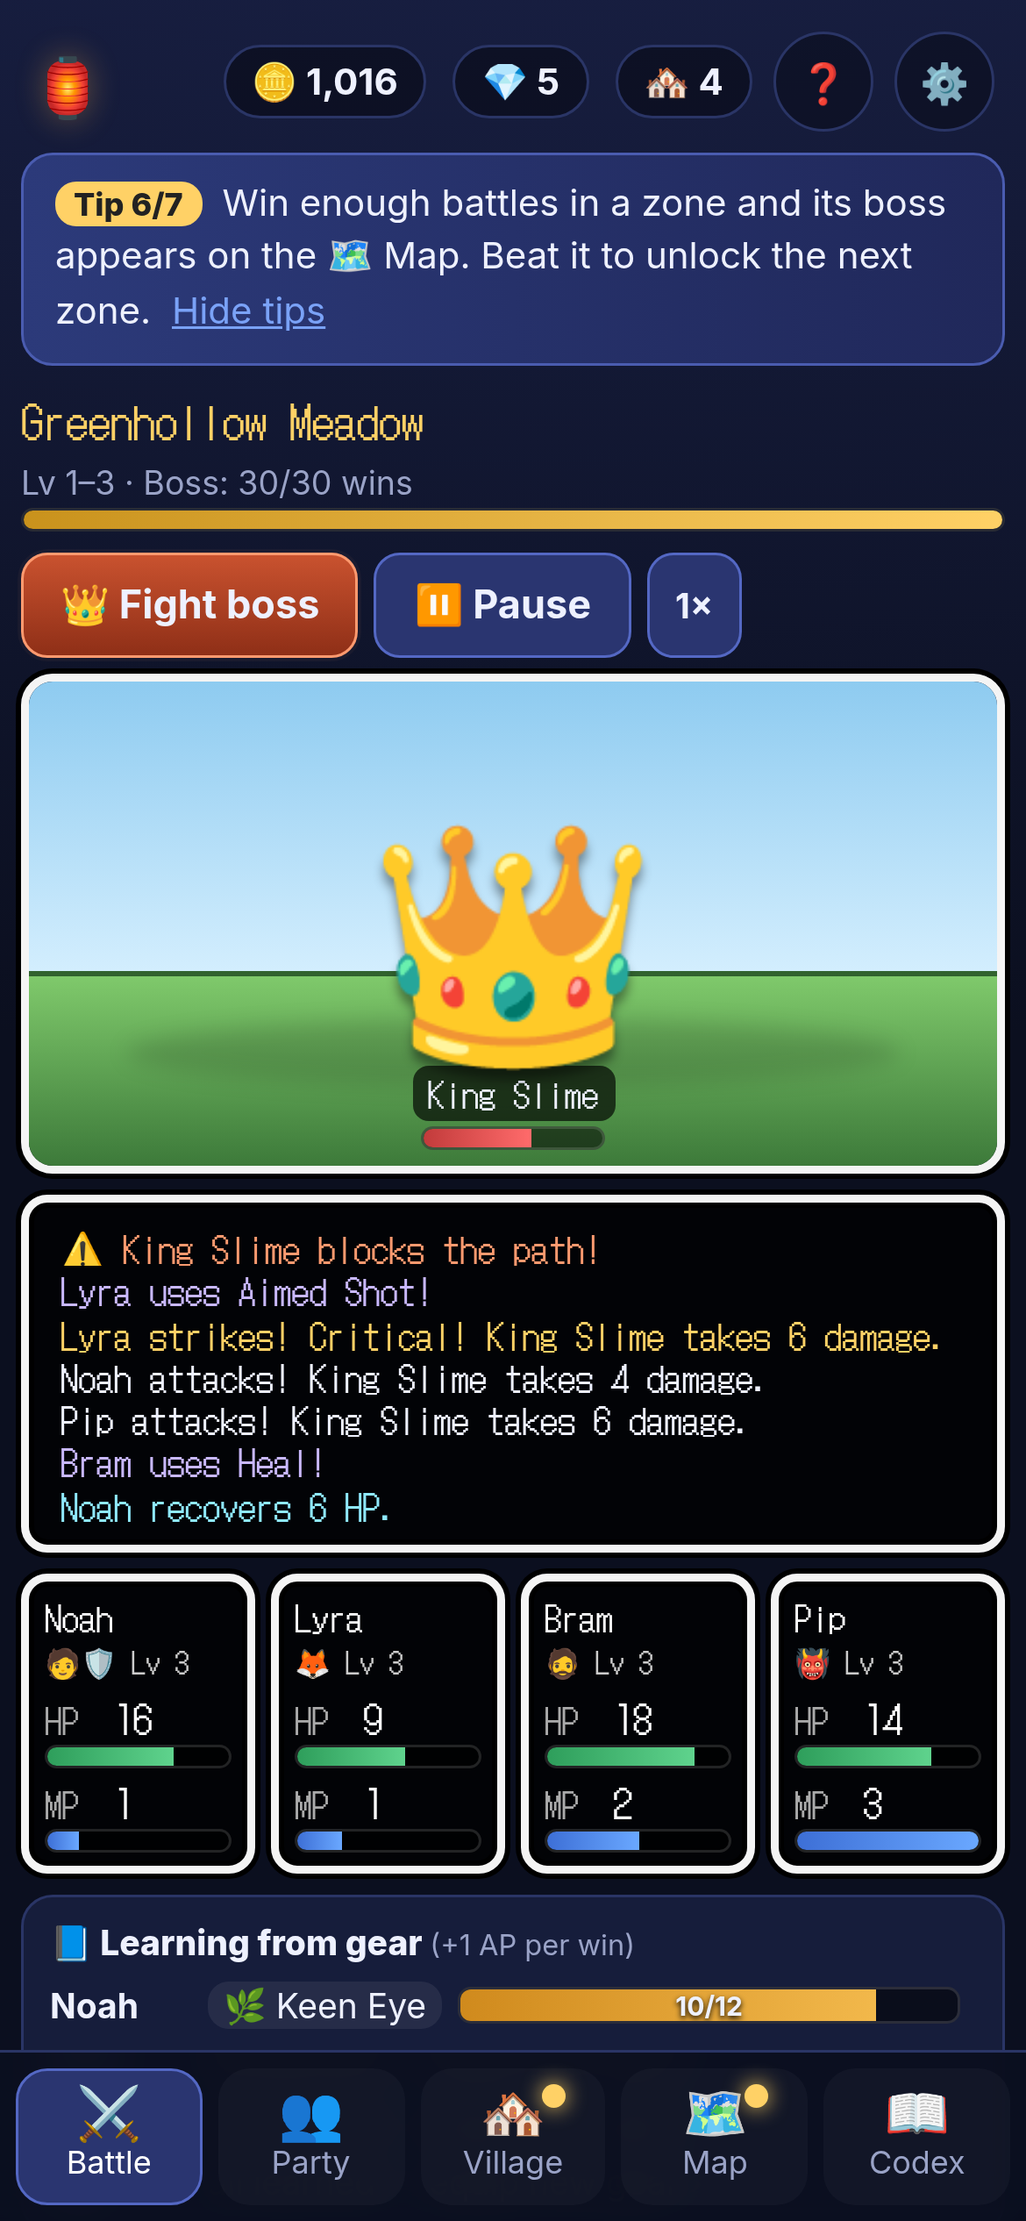
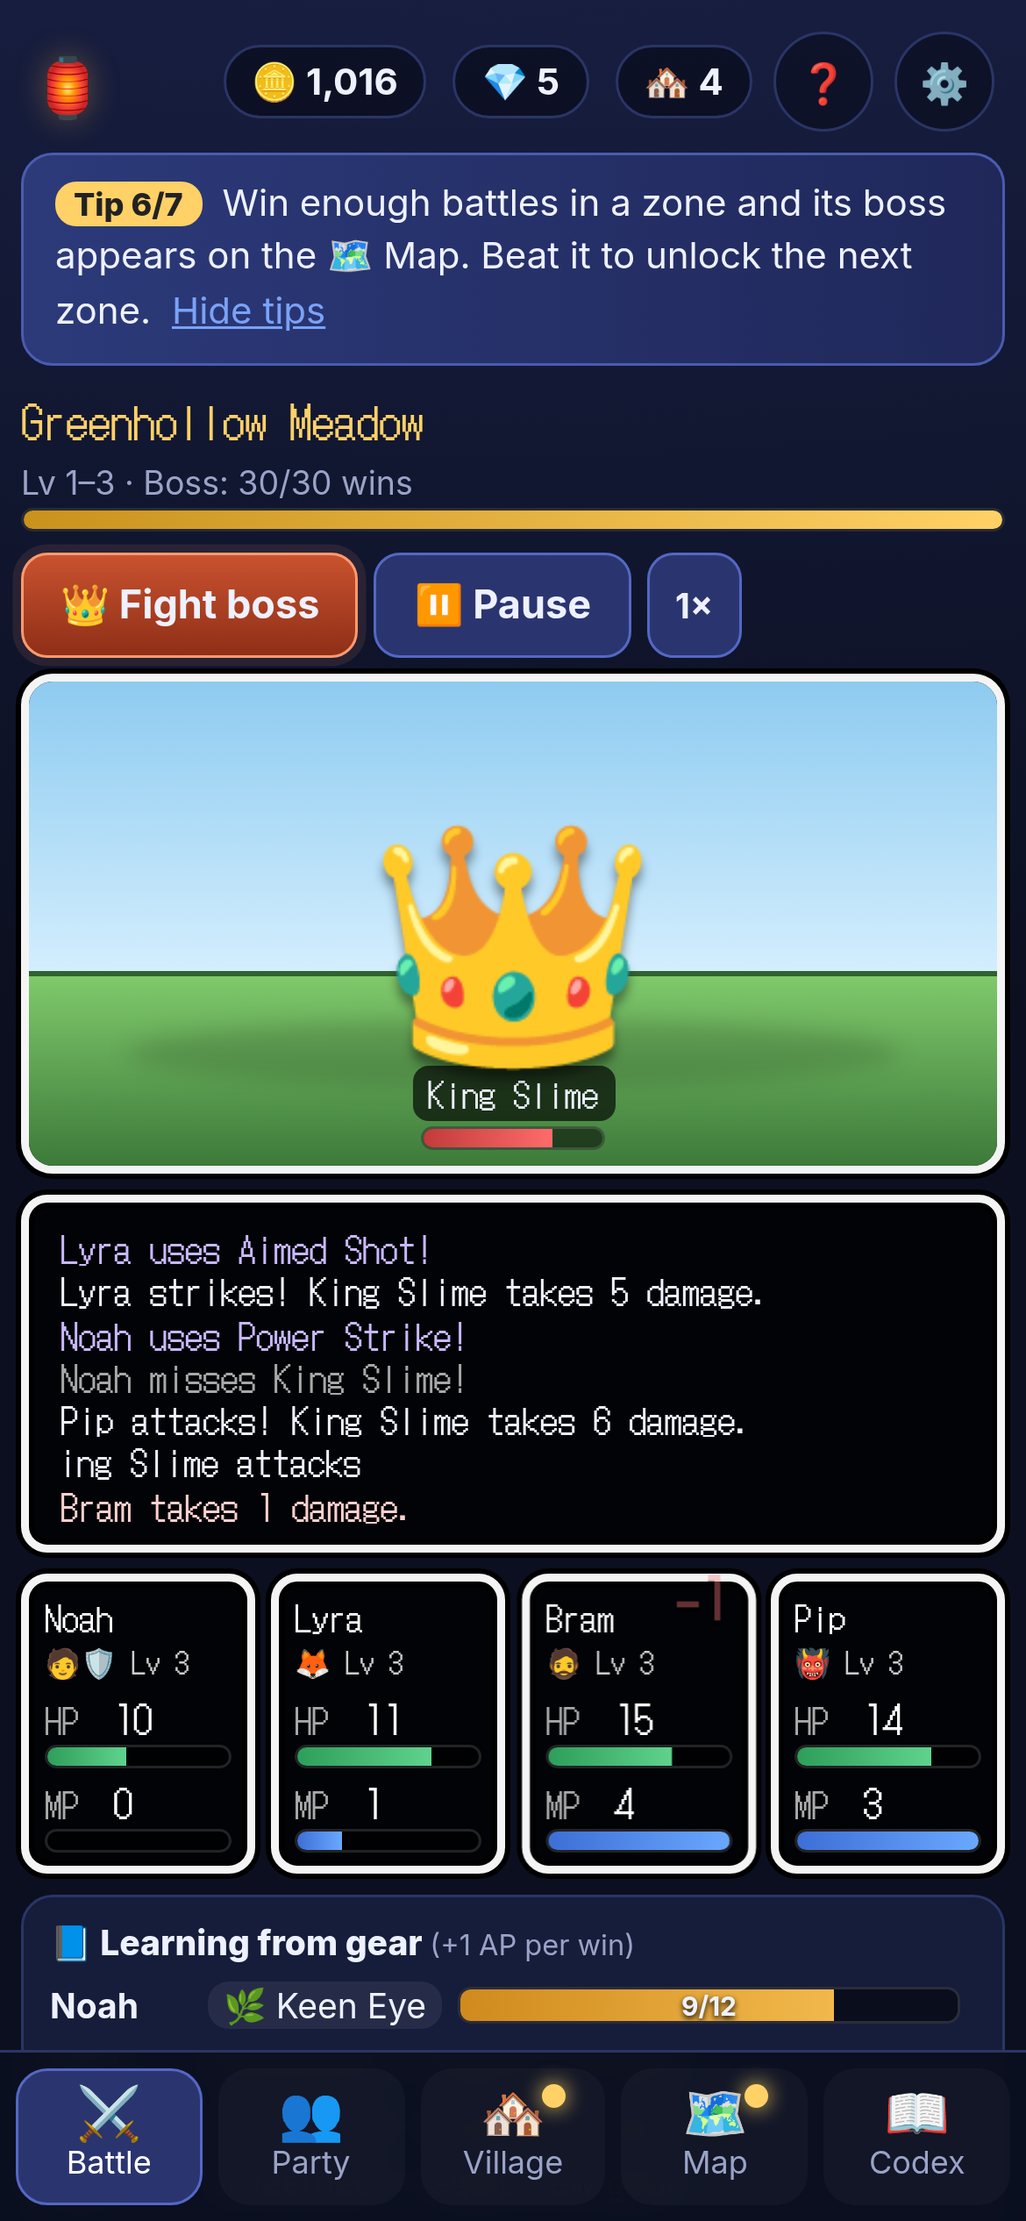
More tier-0 gear-hall items, King Slime crown, render-stability (no button swaps mid-tap), README

diff --git a/ui.js b/ui.js
@@ -6,6 +6,7 @@ const UI = {banner:'forge', tab:'battle', sel:0, partyView:'hero', village:'over
 window.__G = G; window.__D = D; window.__UI = UI;
 
 /* ---------------- helpers ---------------- */
+const setHTML = (el, h) => { if(el && el._h!==h){ el._h=h; el.innerHTML=h; } };
 const pct = (a,b) => b>0 ? Math.max(0,Math.min(100,a/b*100)) : 0;
 const bar = (v,max,cls,label) => `<div class="bar ${cls||''}"><i style="width:${pct(v,max)}%"></i>${label!=null?`<span>${label}</span>`:''}</div>`;
 const statLine = st => Object.entries(st||{}).map(([k,v])=>`${v>0?'+':''}${v} ${D.STAT_NAMES[k]}`).join(', ');
@@ -60,12 +61,12 @@ function renderZoneBar(){
   const S=G.S, Z=D.ZONES[S.zone], z=S.zones[S.zone];
   const ready=bossReady(S.zone);
   const prog = !z.boss ? `Boss: ${Math.min(z.wins,Z.wins)}/${Z.wins} wins` : `Boss beaten ✓ · rematch ${Math.min(z.sinceBoss,25)}/25`;
-  $('#zoneBar').innerHTML = `<div class="zname"><b>${Z.name}</b><small>Lv ${Z.lv} · ${prog}</small>${bar(z.boss?z.sinceBoss:z.wins, z.boss?25:Z.wins,'thin gold')}</div>
+  setHTML($('#zoneBar'), `<div class="zname"><b>${Z.name}</b><small>Lv ${Z.lv} · ${prog}</small>${bar(z.boss?z.sinceBoss:z.wins, z.boss?25:Z.wins,'thin gold')}</div>
     <div class="zbtns">
       ${ready?`<button class="btn boss pulse" data-a="boss">👑 Fight boss</button>`:''}
       <button class="btn ${S.auto&&!S.wiped?'':'go'}" data-a="auto">${S.wiped?'▶ Revive & go':S.auto?'⏸ Pause':'▶ Auto-battle'}</button>
       <button class="btn sm" data-a="speed" title="Battle speed">${S.settings.speed}×</button>
-    </div>`;
+    </div>`);
 }
 function renderScene(){
   const S=G.S, B=S.battle, Z=D.ZONES[S.zone];
@@ -73,7 +74,7 @@ function renderScene(){
   const key = B ? B.key || (B.key = Math.random().toString(36).slice(2)) : 'none';
   const el=$('#enemies');
   if(UI.battleKey!==key){ UI.battleKey=key;
-    el.innerHTML = B ? B.enemies.map((e,i)=>`<div class="enemy ${e.boss?'boss':''}" id="en${i}"><div class="spr">${e.icon}</div><div class="ename">${esc(e.name)}</div><div class="ehp">${bar(e.hp,e.maxHp,'thin red')}</div></div>`).join('') : '';
+    el.innerHTML = B ? B.enemies.map((e,i)=>`<div class="enemy ${e.boss?'boss':''}" id="en${i}"><div class="spr">${e.hat?`<i class="hat">${e.hat}</i>`:''}${e.icon}</div><div class="ename">${esc(e.name)}</div><div class="ehp">${bar(e.hp,e.maxHp,'thin red')}</div></div>`).join('') : '';
   }
   if(B) B.enemies.forEach((e,i)=>{ const n=$('#en'+i); if(!n) return; n.classList.toggle('dead', e.hp<=0); const t=beastTier(e.id);
     n.querySelector('.ehp').innerHTML = bar(e.hp,e.maxHp,'thin red', t>=1?`${e.hp}/${e.maxHp}`:null) + (e.poison?'<span class="st">☠</span>':'') + (e.stun?'<span class="st">💫</span>':'') + (t>=2?`<span class="wk">weak: ${D.ELEMENTS[e.weak].split(' ')[0]}</span>`:''); });
@@ -81,43 +82,43 @@ function renderScene(){
   if(S.wiped) msg=`<div class="wipe dq"><b>💀 The party has fallen.</b><p>Villagers carried everyone home. Everyone is healed. Nothing was lost; auto-battle is paused.</p><div class="row"><button class="btn go" data-a="auto">▶ Revive &amp; keep fighting here</button>${S.zone>0?`<button class="btn" data-a="zone" data-z="${S.zone-1}">◀ Go back to ${esc(D.ZONES[S.zone-1].name)}</button>`:''}</div><small>Tip: level up, learn skills, eat at the Tavern or buy gear, then try again.</small></div>`;
   else if(S.rest>0) msg=`<div class="rest">⛺ Resting at camp… ${Math.ceil(S.rest/S.settings.speed)}s</div>`;
   else if(!S.auto) msg=`<div class="rest">⏸ Paused — tap ▶ Auto-battle</div>`;
-  $('#sceneMsg').innerHTML=msg;
+  setHTML($('#sceneMsg'), msg);
 }
 function renderLog(){
   const L=G.S.log.slice(-7);
-  $('#msgwin').innerHTML = L.map(l=>`<div class="ln ${l.c}">${esc(l.m)}</div>`).join('') || '<div class="ln">…</div>';
+  setHTML($('#msgwin'), L.map(l=>`<div class="ln ${l.c}">${esc(l.m)}</div>`).join('') || '<div class="ln">…</div>');
 }
 function renderPWins(){
   const S=G.S;
-  $('#pwins').innerHTML = S.chars.map((c,i)=>{ const d=calc(c, S.battle&&S.battle.buffs); const low=c.hp>0&&c.hp<d.maxHp*.3; const job=c.job?D.JOBS[c.job].icon:'';
+  setHTML($('#pwins'), S.chars.map((c,i)=>{ const d=calc(c, S.battle&&S.battle.buffs); const low=c.hp>0&&c.hp<d.maxHp*.3; const job=c.job?D.JOBS[c.job].icon:'';
     return `<button class="pwin dq ${c.hp<=0?'ko':low?'low':''}" id="pw${i}" data-a="openChar" data-i="${i}">
       <div class="pn">${esc(c.name)}</div><div class="pl">${D.RACES[c.race].icon}${job} Lv ${c.lv}</div>
       <div class="ps"><span>HP</span><b>${c.hp}</b><small>/${d.maxHp}</small></div>${bar(c.hp,d.maxHp,'thin hpb')}
       <div class="ps"><span>MP</span><b>${c.mp}</b><small>/${d.maxMp}</small></div>${bar(c.mp,d.maxMp,'thin mpb')}
-    </button>`; }).join('');
+    </button>`; }).join(''));
 }
 function learningOf(c){ // [{sid, ap, need}] for gear skills not yet learned
   const out=[]; for(const u of charGear(c)) for(const sid of defOf(u).skills) if(!c.learned[sid] && !out.some(x=>x.sid===sid)) out.push({sid, ap:c.ap[sid]||0, need:D.SKILLS[sid].ap}); return out.sort((a,b)=>b.ap/b.need-a.ap/a.need); }
 function renderLearn(){
   const S=G.S;
-  $('#learnStrip').innerHTML = `<div class="lshead">📘 Learning from gear <small>(+1 AP per win)</small></div>` + S.chars.map((c,i)=>{ const L=learningOf(c);
+  setHTML($('#learnStrip'), `<div class="lshead">📘 Learning from gear <small>(+1 AP per win)</small></div>` + S.chars.map((c,i)=>{ const L=learningOf(c);
     if(!L.length) return `<div class="lsrow" data-a="openChar" data-i="${i}"><b>${esc(c.name)}</b><span class="muted warnl">all learned — equip new gear ›</span></div>`;
-    const x=L[0]; return `<div class="lsrow" data-a="openChar" data-i="${i}"><b>${esc(c.name)}</b><span class="sk">${skillName(x.sid)}</span>${bar(x.ap,x.need,'thin ap',`${x.ap}/${x.need}`)}${L.length>1?`<small>+${L.length-1}</small>`:''}</div>`; }).join('');
+    const x=L[0]; return `<div class="lsrow" data-a="openChar" data-i="${i}"><b>${esc(c.name)}</b><span class="sk">${skillName(x.sid)}</span>${bar(x.ap,x.need,'thin ap',`${x.ap}/${x.need}`)}${L.length>1?`<small>+${L.length-1}</small>`:''}</div>`; }).join(''));
 }
 function renderBuffs(){
   const S=G.S; const b=[];
   if(S.food) b.push(`${D.FOOD[S.food.id].icon} ${D.FOOD[S.food.id].name} (${D.FOOD[S.food.id].desc}) · ${S.food.left} battles`);
   if(S.elixir) b.push(`${D.POTION[S.elixir.id].icon} ${D.POTION[S.elixir.id].name} · ${S.elixir.left} battles`);
   const p=['potion','hi_potion','ether','phoenix_down'].filter(k=>S.pots[k]>0).map(k=>`${D.POTION[k].icon}${S.pots[k]}`).join(' ');
-  $('#buffs').innerHTML = (b.length?b.map(x=>`<span class="buff">${x}</span>`).join(''):`<span class="muted">No meal or elixir active — visit the Tavern / Apothecary.</span>`) + (p?`<span class="buff">Bag: ${p}</span>`:'');
+  setHTML($('#buffs'), (b.length?b.map(x=>`<span class="buff">${x}</span>`).join(''):`<span class="muted">No meal or elixir active — visit the Tavern / Apothecary.</span>`) + (p?`<span class="buff">Bag: ${p}</span>`:''));
 }
 function renderMini(){
   const S=G.S; const el=$('#mini');
   if(UI.wide || UI.tab==='battle' || !S.started){ el.innerHTML=''; el.style.display='none'; return; }
   el.style.display='';
   const last=S.log[S.log.length-1];
-  el.innerHTML = `<button class="minib" data-a="tab" data-t="battle"><span>⚔ ${esc(D.ZONES[S.zone].name)} ${S.wiped?'· 💀 fallen':S.rest>0?'· ⛺ resting':!S.auto?'· ⏸':''}</span>
-    <span class="mhp">${S.chars.map(c=>{const d=calc(c);return `<i class="${c.hp<=0?'ko':''}" style="--p:${pct(c.hp,d.maxHp)}%"></i>`}).join('')}</span><small>${last?esc(last.m):''}</small></button>`;
+  setHTML(el, `<button class="minib" data-a="tab" data-t="battle"><span>⚔ ${esc(D.ZONES[S.zone].name)} ${S.wiped?'· 💀 fallen':S.rest>0?'· ⛺ resting':!S.auto?'· ⏸':''}</span>
+    <span class="mhp">${S.chars.map(c=>{const d=calc(c);return `<i class="${c.hp<=0?'ko':''}" style="--p:${pct(c.hp,d.maxHp)}%"></i>`}).join('')}</span><small>${last?esc(last.m):''}</small></button>`);
 }
 function animate(){
   const ev=G.ev.splice(0); if(!ev.length) return;
@@ -526,7 +527,7 @@ function loop(){
   }catch(e){ console.error('tick', e); }
   if(now-lastSave>5000){ save(); lastSave=now; }
   // battle area redraws every frame-ish; panel every ~1.2s unless the user is touching it
-  if(G.S.started){ if(UI.wide||UI.tab==='battle'){ if(now-lastBattleDraw>150){ guard('battle', renderBattle, $('#battleCol')); lastBattleDraw=now; } } else { G.ev.length=0; guard('mini', renderMini); }
+  if(G.S.started){ if(UI.wide||UI.tab==='battle'){ if(now-lastBattleDraw>150 && !UI.pointer){ guard('battle', renderBattle, $('#battleCol')); lastBattleDraw=now; } } else { G.ev.length=0; guard('mini', renderMini); }
     guard('top', renderTop);
     if(now-UI.lastPanel>1200 && !UI.pointer && !UI.modalOpen && !(document.activeElement&&/INPUT|TEXTAREA|SELECT/.test(document.activeElement.tagName))){ guard('tabs', renderTabs); guard('hint', renderHint); renderPanel(); } }
 }

diff --git a/data.js b/data.js
@@ -269,6 +269,16 @@ D.ITEMS = [
   I('charm','Clover Charm','🍀','acc',0,{agi:1},['keen_eye'],15,1),
   I('ring_mp','Glass Ring','💍','acc',0,{mp:1},['mana_font'],16,null),
   I('gel_bangle','Gel Bangle','📿','acc',0,{hp:2},['herbal_lore'],0,null),
+  // tier 0 — gear-hall only
+  I('bsword','Bronze Shortsword','🗡','weapon',0,{str:2},['power_strike','toughness'],20,null),
+  I('buckler','Wooden Buckler','🛡','acc',0,{def:1},['iron_skin'],18,null),
+  I('beads','Prayer Beads','📿','acc',0,{mp:1},['heal','blessing'],20,null),
+  I('vestment','Linen Vestment','🥼','armor',0,{def:1,mp:1},['holy_light'],18,null),
+  I('tome','Apprentice Tome','📕','acc',0,{mag:1},['frost'],18,null),
+  I('star_robe','Starry Robe','🧥','armor',0,{def:1,mag:1},['mana_font','fire'],20,null),
+  I('hood','Rogue Hood','🎭','armor',0,{def:1,agi:1},['evasion'],18,null),
+  I('lockpick','Lockpick Set','🪛','acc',0,{agi:1},['steal'],18,null),
+  I('snare','Snare Kit','🪤','acc',0,{agi:1},['entangle'],18,null),
   // tier 1 — Whisperwood
   I('spear','Ash Spear','🔱','weapon',1,{str:2},['cleave'],40,2),
   I('staff','Willow Staff','🦯','weapon',1,{mag:2},['frost'],42,2),
@@ -351,7 +361,7 @@ D.ZONES = [
       E('mushling','Mushling','🍄','tank','fire',[['herb',.3],['tunic',.02]]),
       E('bee','Buzzbee','🐝','quick','ice',[['herb',.2],['knife',.02]]),
     ],
-    boss:E('king_slime','King Slime','👑','tank','fire',[['gel',1],['gel_bangle',.3],['ring_mp',.3]], {boss:1})},
+    boss:E('king_slime','King Slime','💧','tank','fire',[['gel',1],['gel_bangle',.3],['ring_mp',.3]], {boss:1, hat:'👑'})},
   {id:'wood', name:'Whisperwood', lv:'3–7', bg:['#3f7d4a','#1f4027'], sky:['#5d8f6b','#a9d1a4'], wins:50,
     desc:'Old trees that murmur at night. Wolves hunt in packs here.',
     enemies:[

diff --git a/engine.js b/engine.js
@@ -231,7 +231,7 @@ function spawn(zi, boss){
   const cnt={};
   return list.map((e,i)=>{ const st=enemyStats(e,zi); const t=beastTier(e.id), red=D.BEAST_TIERS[t].red;
     const same=list.filter(x=>x.id===e.id).length>1; cnt[e.id]=(cnt[e.id]||0)+1;
-    return {id:e.id, name:e.name+(same?' '+'ABC'[cnt[e.id]-1]:''), icon:e.icon, weak:e.weak, boss:!!e.boss, role:e.role, zi,
+    return {id:e.id, name:e.name+(same?' '+'ABC'[cnt[e.id]-1]:''), icon:e.icon, hat:e.hat, weak:e.weak, boss:!!e.boss, role:e.role, zi,
       hp:st.hp, maxHp:st.hp, atk:Math.max(1,Math.round(st.atk*(1-red))), def:Math.round(st.def*(1-red)), agi:Math.max(1,Math.round(st.agi*(1-red))), mag:Math.round(st.mag*(1-red)),
       xp:st.xp, gold:st.gold, poison:null, stun:0, deb:{}, idx:i};
   });

diff --git a/style.css b/style.css
@@ -215,3 +215,4 @@ body.started:not(.wide)[data-tab="battle"] #panel{display:none}
 .pci{font-size:34px}.pcn{font-weight:800;font-size:13px}.pcr{color:var(--c);font:13px var(--dq)}.pcs{font-size:11px;color:var(--mut)}.pck{font-size:11px;margin-top:3px}
 .pnew{position:absolute;top:-8px;right:-6px;background:var(--gold);color:#222;font-size:10px;font-weight:800;border-radius:8px;padding:1px 6px}
 .pfoot{display:flex;gap:8px;justify-content:center;flex-wrap:wrap;margin-top:14px;opacity:0;animation:flip .3s forwards}
+.enemy .spr{position:relative}.enemy .hat{position:absolute;left:50%;top:-.38em;transform:translateX(-50%);font-size:.5em;font-style:normal}

diff --git a/tools/test.py b/tools/test.py
@@ -49,7 +49,7 @@ with sync_playwright() as p:
         pg.wait_for_timeout(9000)
         st = S(pg, "({wins:S.stats.wins,log:S.log.length,enemies:document.querySelectorAll('#enemies .enemy').length,pw:document.querySelectorAll('.pwin').length,maxHp:S.chars.map(c=>calc(c).maxHp)})")
         rec(f'{tag} live auto-battle runs (log, enemies, 4 status windows)', st['log'] > 3 and st['pw'] == 4 and (st['wins'] >= 1 or st['enemies'] >= 1), st)
-        rec(f'{tag} single-digit start: every hero has < 20 HP', all(h < 20 for h in st['maxHp']), st)
+        rec(f'{tag} small numbers at the start: every hero has 20 HP or less', all(h <= 20 for h in st['maxHp']), st)
         shot(pg, tag, '02-battle')
         # ---------- learn a skill (test-only fast forward) ----------
         pg.evaluate("__debug.battles(14)")
@@ -80,7 +80,7 @@ with sync_playwright() as p:
         shot(pg, tag, '06-gear-hall')
         d0 = S(pg, "S.diamonds"); n0 = S(pg, "S.inv.length")
         tap(pg, '[data-a=pull][data-n="1"]', 0, touch); pg.wait_for_timeout(2400)
-        rec(f'{tag} pull ×1 spends 5 diamonds, adds gear, plays the reveal', S(pg, "S.diamonds") == d0 - 5 and S(pg, "S.inv.length") == n0 + 1 and pg.locator('#modal .pcard').count() == 1, (d0, S(pg, "S.diamonds")))
+        rec(f'{tag} pull ×1 spends 5 diamonds, adds gear, plays the reveal', S(pg, "S.diamonds") == d0 - 5 and S(pg, "S.inv.length") >= n0 + 1 and pg.locator('#modal .pcard').count() == 1, (d0, S(pg, "S.diamonds")))
         tap(pg, '#modal .mclose', 0, touch)
         pg.evaluate("__G.S.diamonds=45"); pg.wait_for_timeout(1300)
         tap(pg, '[data-a=pull][data-n="10"]', 0, touch); pg.wait_for_timeout(3800)
@@ -160,7 +160,7 @@ with sync_playwright() as p:
         tap(pg, '[data-a=importOpen]', 0, touch); pg.locator('#imp').fill(code); tap(pg, '[data-a=importDo]', 0, touch); pg.wait_for_timeout(400)
         rec(f'{tag} import restores the exported save', S(pg, "S.started && S.chars[0].name==='Noah' && S.chars[0].job==='knight'"))
         # ---------- migration from an older save ----------
-        pg.evaluate("(()=>{const s=JSON.parse(localStorage.getItem('lanternfall.save'));delete s.v;delete s.settings.autoRest;delete s.bestiary;delete s.banners;delete s.diamonds;s.buildings={smithy:2};s.inv.forEach(u=>delete u.r);localStorage.setItem('lanternfall.save',JSON.stringify(s));})()")
+        pg.evaluate("(()=>{save();__G.noSave=true;const s=JSON.parse(localStorage.getItem('lanternfall.save'));delete s.v;delete s.settings.autoRest;delete s.bestiary;delete s.banners;delete s.diamonds;s.buildings={smithy:2};s.inv.forEach(u=>delete u.r);localStorage.setItem('lanternfall.save',JSON.stringify(s));})()")
         pg.reload(wait_until='networkidle'); pg.wait_for_timeout(800)
         st = S(pg, "({v:S.v,ar:S.settings.autoRest,b:S.buildings,best:typeof S.bestiary,ban:S.banners,dia:S.diamonds,r:S.inv.every(u=>u.relic||u.r===0)})")
         rec(f'{tag} save migration v0 -> v2 fills missing fields, gear gets rarity', st['v'] == 2 and st['ar'] is True and st['b'].get('guild') == 0 and st['b']['smithy'] == 2 and st['best'] == 'object' and st['ban']['forge'] == 1 and st['dia'] == 25 and st['r'], st)

diff --git a/README.md b/README.md
@@ -1,0 +1,66 @@
+# 🏮 Lanternfall
+
+A party-of-four incremental idle RPG. Dragon Quest-style battle screen, FF9-style "gear teaches skills", jobs with skill trees, a village that grows while you fight, and gear-hall pulls for rarer gear. Plain HTML/CSS/JS, no build step, saves to `localStorage`.
+
+**Play:** https://nptrulock.github.io/lanternfall/
+
+## How it plays
+- **Make 4 heroes.** Give each a name and a race. There are 6 races:
+  - **Human:** learns faster.
+  - **Elf:** caster.
+  - **Dwarf:** tough.
+  - **Halfling:** lucky, finds more gold.
+  - **Orc:** gets stronger when hurt.
+  - **Beastkin:** quick hunter.
+
+  Each race unlocks 5 traits at levels 1 to 30, so a hero keeps changing as it levels.
+- **Battles run on their own.** Enemies show at the top, the battle log sits in the middle and the party's HP/MP windows are at the bottom. Turn order goes by AGI. Numbers stay small for a long time (2–6 damage, real misses, 10–20 HP), and growth is slow on purpose.
+- **Gear teaches skills.** Every item carries 1–2 skills in 5 types: ⚔ Martial, ✨ Holy, 🔮 Arcane, 🌑 Shadow and 🌿 Wild.
+  - Each win gives the skills on worn gear +1 AP, and bosses give +3.
+  - Rare and better gear adds +1 to +3 AP per win.
+  - A full bar means the skill is learned forever.
+- **Jobs.** Learning 3 skills of one type unlocks that type's job: Knight, Priest, Mage, Thief or Ranger.
+  - Advanced jobs need 4 + 3 skills across two types and a Guild Hall mentor: Paladin, Spellblade, Druid, Assassin and Warlock.
+  - Jobs earn JP (job points) to spend on a 6–7 node skill tree. Tier 3 of each tree needs that job's mentor.
+- **💎 Gear halls (gacha).** There are 5 halls, built and upgraded with Masonry: 🔥 Forge (martial), ⛪ Chapel (holy), 🔮 Arcanum (arcane), 🗝 Thieves' Den (shadow) and 🏹 Hunter's Lodge (wild).
+  - A pull costs 5 Diamonds, or 45 for 10. A 10-pull always includes at least one Rare.
+  - **Pity:** you're guaranteed an Epic or better within 60 pulls on each hall.
+  - Each hall has a rates table. Upgrading a hall improves its odds and opens higher-tier gear, capped by how far you've travelled:
+
+    | Hall level | Common | Uncommon | Rare | Epic | Legendary |
+    |---|---|---|---|---|---|
+    | 1 | 72% | 22% | 5% | 0.9% | 0.1% |
+    | 4 | 54% | 29% | 12.5% | 3.7% | 0.8% |
+    | 8 | 32% | 31% | 23.5% | 10.5% | 3% |
+
+  - Rarity multiplies item stats: ×1, ×1.3, ×1.7, ×2.3 and ×3.2.
+  - The Smithy fuses 3 copies of an item into the next rarity.
+  - **Diamonds:**
+    - ⛏ Mining villagers dig them up slowly, about one every 4 minutes at first.
+    - Bosses give 15 the first time and 3 on each rematch.
+    - Battles have a 0.4% chance to drop one.
+    - Mining also turns up Stone, Copper, and gems you can sell.
+- **Zones.** There are 8 zones, from Greenhollow Meadow to Dragon's Spine. Win battles to make the zone's boss appear, then beat it to open the next zone. Bosses can be fought again every 25 wins.
+- **💀 Falling is cheap.** If the whole party is knocked out, villagers carry everyone home fully healed and nothing is lost. Auto-battle pauses until you press ▶.
+- **💠 Relics.** There are 7 very rare relics: one from each boss after the first (1 in 29 to 41 per kill), plus a tiny chance from any monster. Each holds a vital skill: Rebirth, Valor, Midas Touch, Miracle, Haste, Starfall or Dragonblood.
+- **🏘 Village.** Assign villagers to 6 professions: Mining, Masonry, Smithing, Cooking, Alchemy and Scholarship. They keep working offline.
+  - Profession level, gold and materials upgrade the buildings, and each building's look changes as it grows:
+
+    | Building | What it does |
+    |---|---|
+    | Smithy | Basic gear, selling, fusing |
+    | Tavern | Meals that buff the party for N battles |
+    | Apothecary | Potions, Ethers, Phoenix Downs and timed elixirs |
+    | Library | Bestiary knowledge tiers: monsters lose ATK/DEF/AGI and their weakness is revealed |
+    | Guild Hall | Mentors: +JP, tier-3 nodes and advanced jobs |
+
+  - Every material chip (marked with ?) shows have/need, where to get it and what uses it.
+- **Offline.** You get up to 8 hours with a welcome-back summary. Villagers work at full speed, and the party fights at about half pace.
+- **Settings:** auto-potions, camp rest, auto-boss, 1×/2× battle speed, export/import save, hard reset.
+
+## Files
+- `data.js`: all content (races, skills, jobs, items, relics, zones, village, gacha rates).
+- `engine.js`: simulation (no DOM), saves and versioned migrations.
+- `ui.js`, `style.css`, `index.html`: the interface. Every page render is guarded, so one broken page can't freeze the game.
+- `tools/sim.js`: headless balance sim. Run `node tools/sim.js <hours> [races]`.
+- `tools/test.py`: headless Chrome test at iPhone, iPad landscape and desktop. Run `python3 tools/test.py <url>`. Screenshots go to `shots/`.
